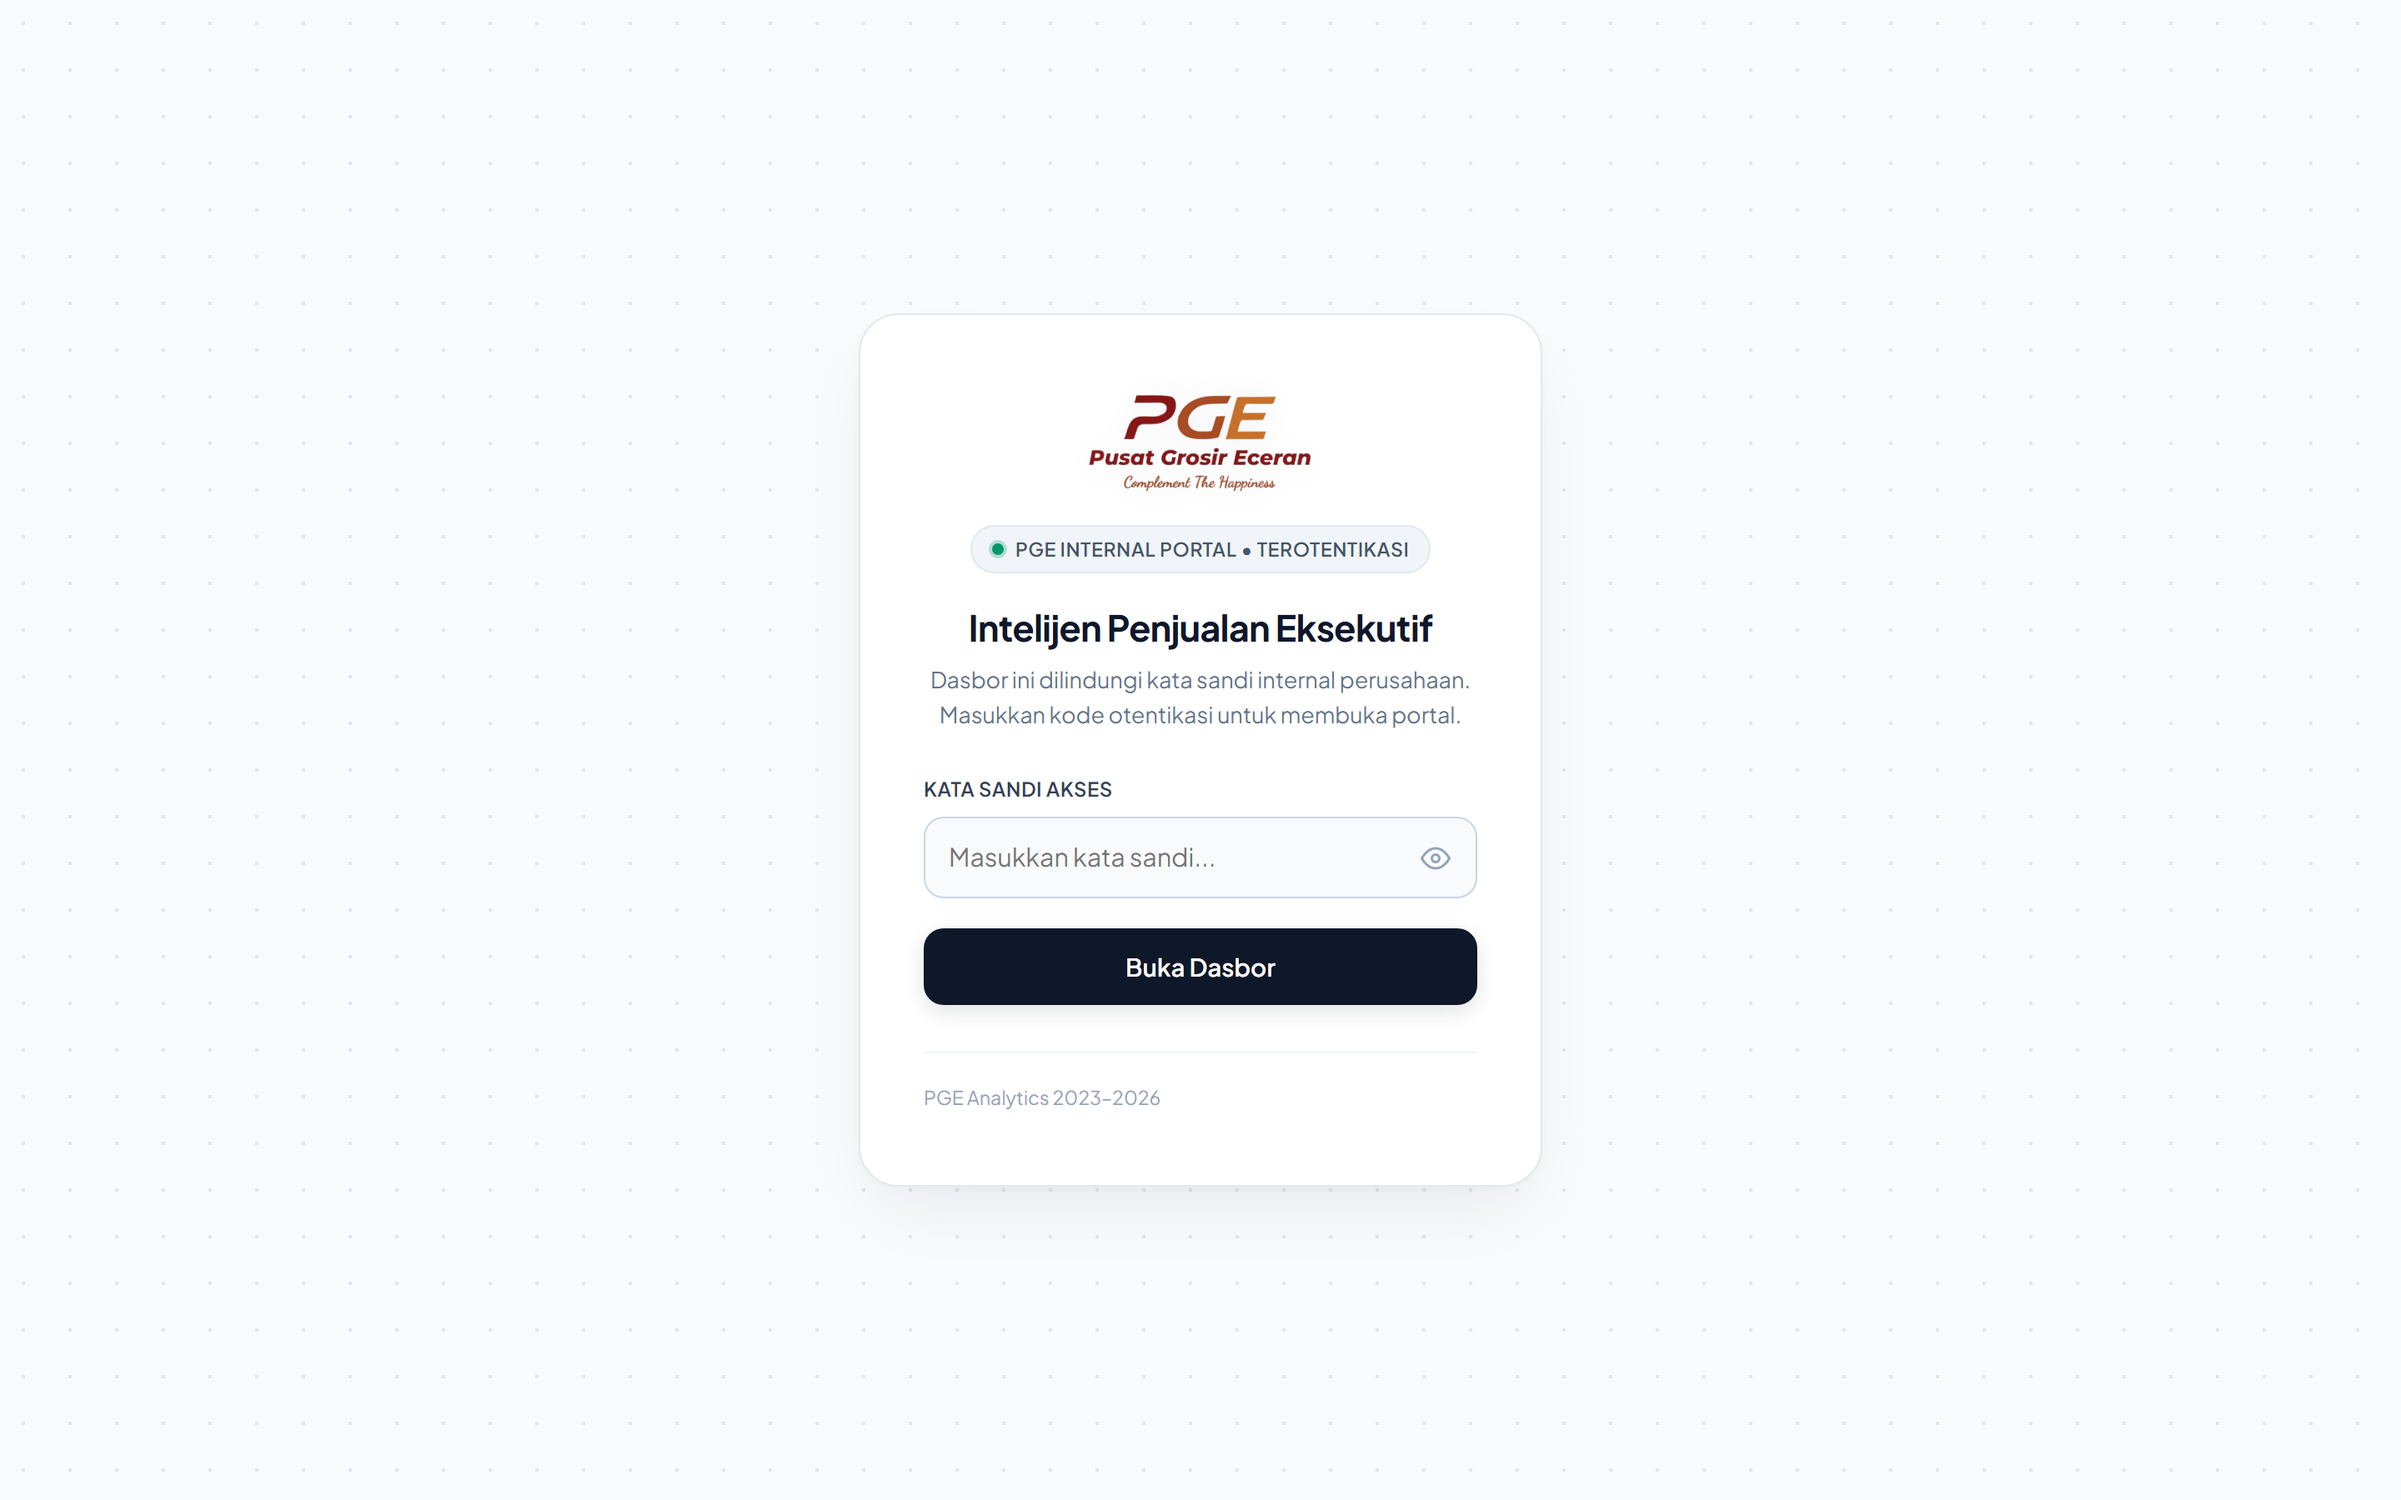
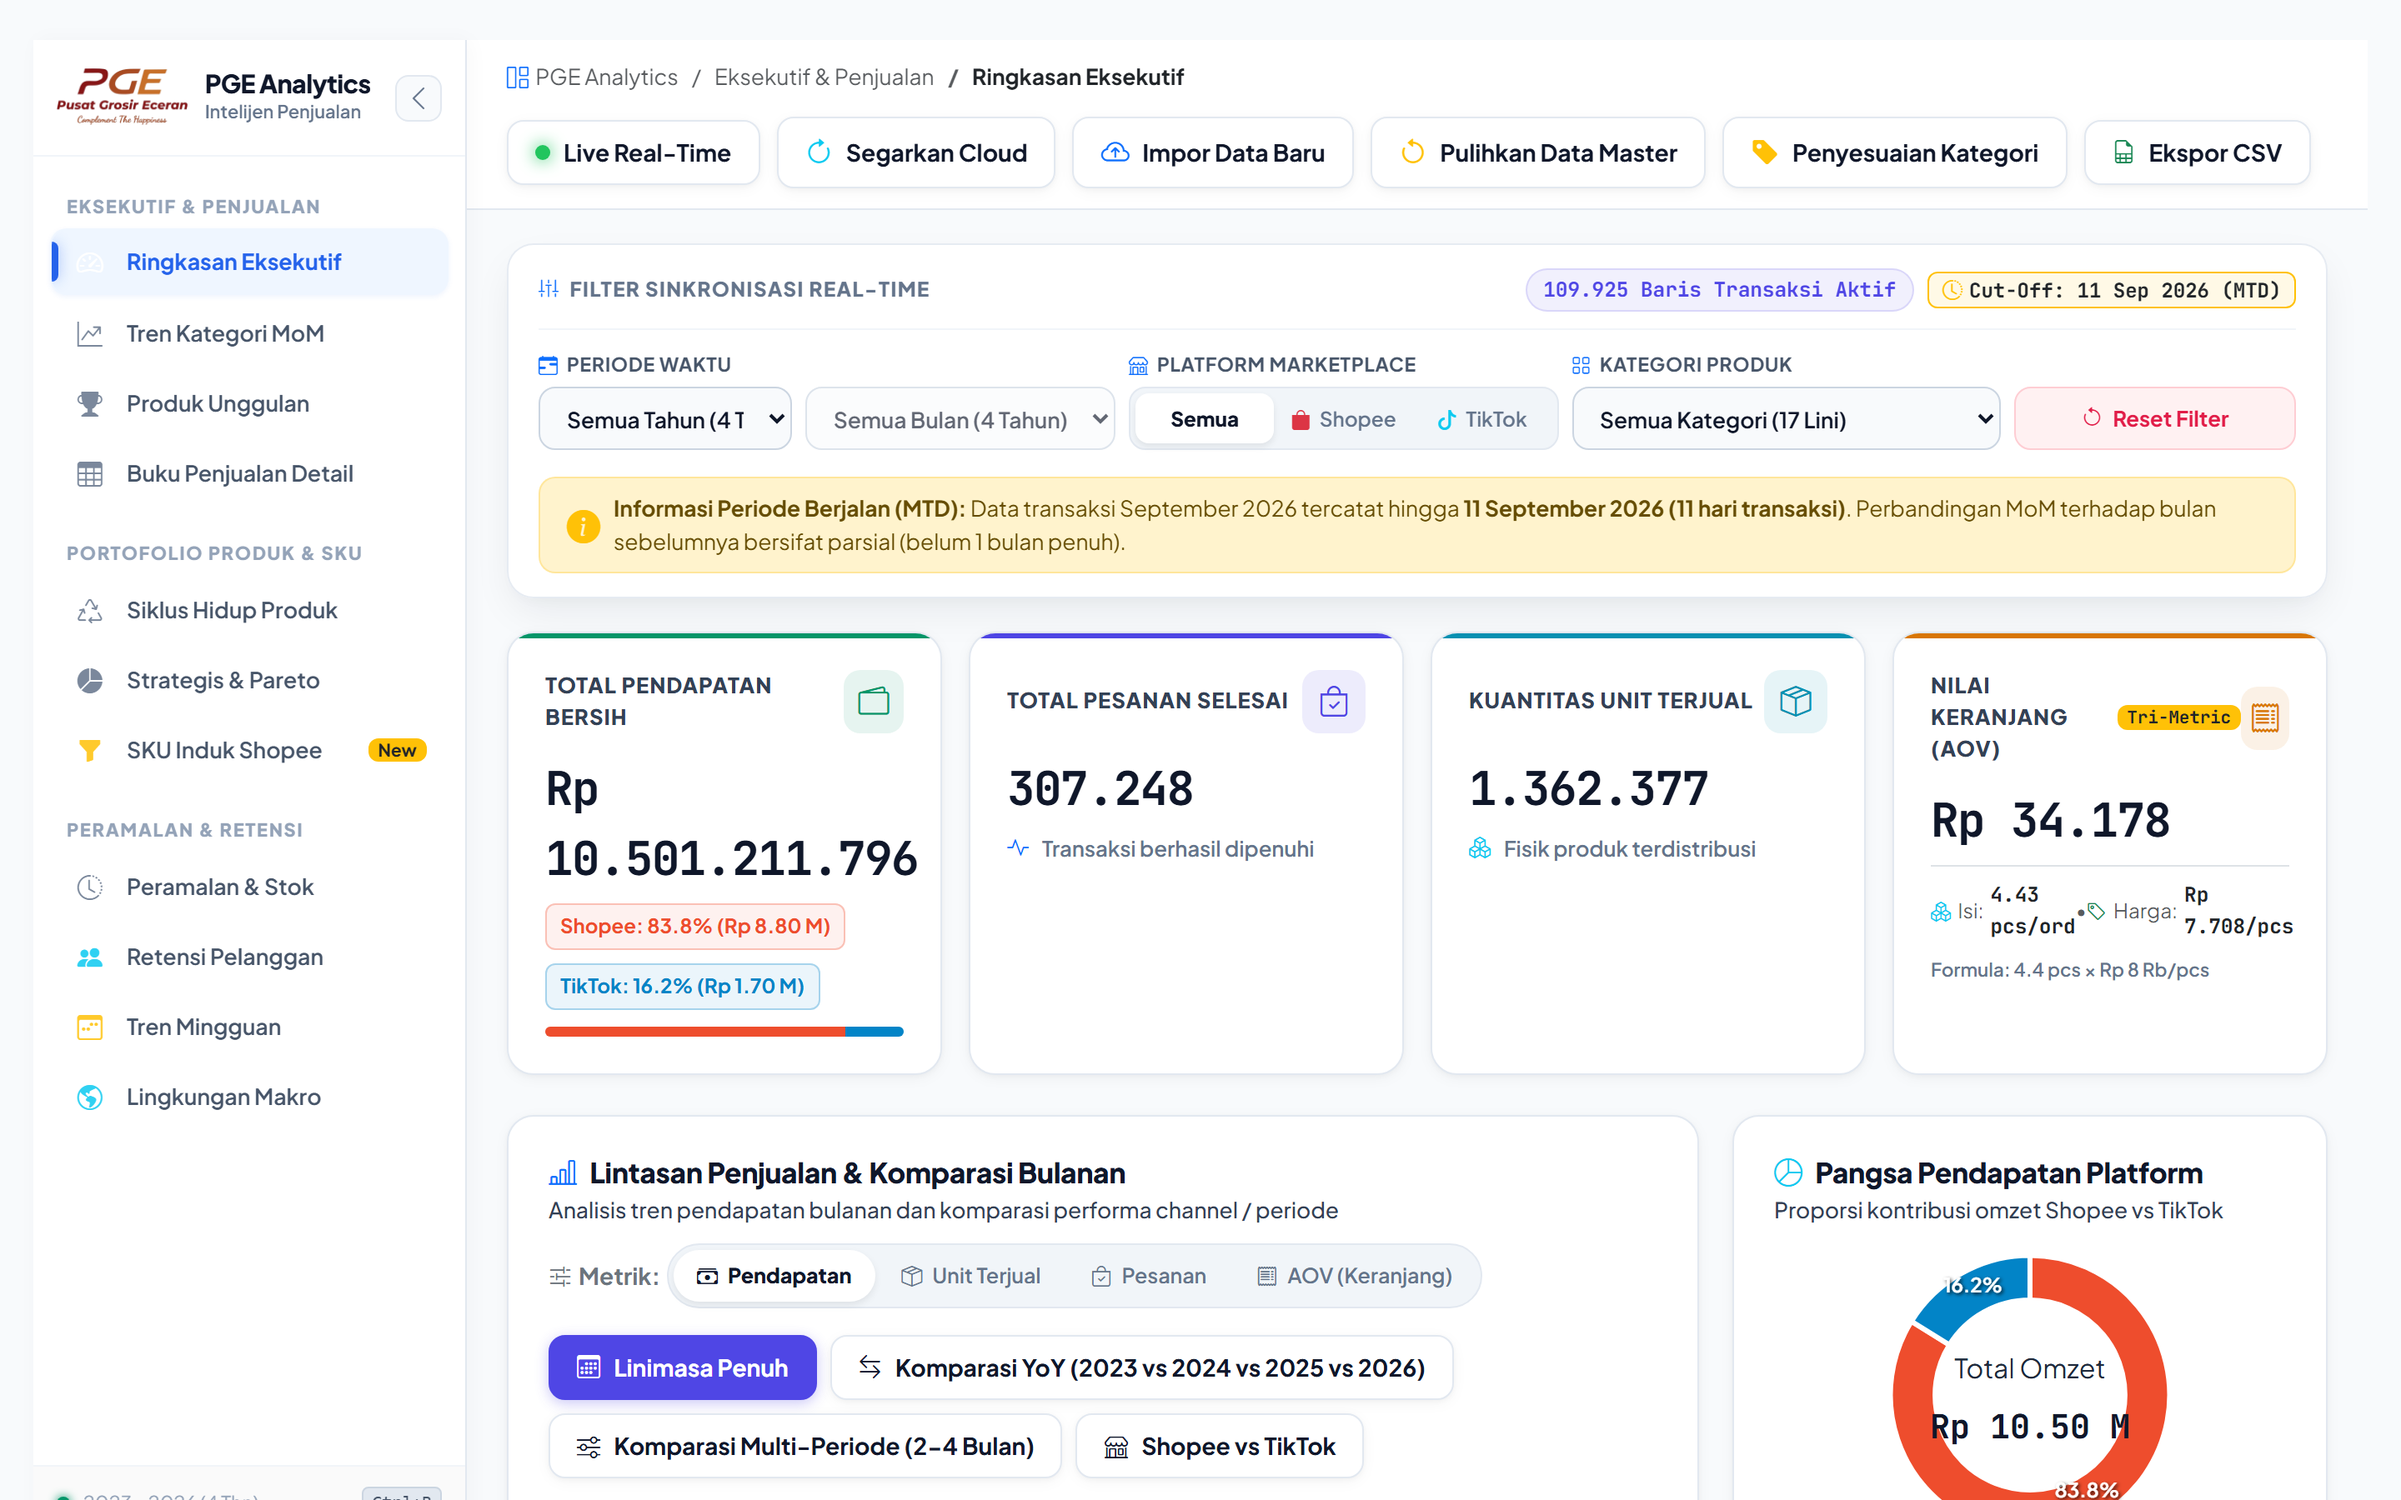
fix(screenshots): capture real unlocked dashboard views for PGE Marketplace Sales Intelligence bypassing auth gate

diff --git a/scripts/capture_real_pge_dashboard.js b/scripts/capture_real_pge_dashboard.js
@@ -1,0 +1,77 @@
+import puppeteer from 'puppeteer-core';
+import path from 'path';
+import { fileURLToPath } from 'url';
+
+const __filename = fileURLToPath(import.meta.url);
+const __dirname = path.dirname(__filename);
+const rootDir = path.resolve(__dirname, '..');
+
+const CHROME_PATH = 'C:\\Program Files\\Google\\Chrome\\Application\\chrome.exe';
+
+async function captureRealPGEDashboard() {
+  console.log('🚀 Launching Chromium to capture REAL Unlocked PGE Dashboard...');
+  const browser = await puppeteer.launch({
+    executablePath: CHROME_PATH,
+    headless: true,
+    args: ['--no-sandbox', '--disable-gpu']
+  });
+
+  const page = await browser.newPage();
+  await page.setViewport({ width: 1440, height: 900, deviceScaleFactor: 2 });
+
+  await page.evaluateOnNewDocument(() => {
[1 lines of base64/hex data omitted]
+    sessionStorage.setItem('pge_last_activity_ts', String(Date.now()));
+  });
+
+  console.log('📸 Navigating to https://pge-dashboard-online.vercel.app/...');
+  await page.goto('https://pge-dashboard-online.vercel.app/', { waitUntil: 'domcontentloaded', timeout: 30000 });
+  
+  // Wait 3.5 seconds for data & charts to fully render
+  await new Promise(r => setTimeout(r, 3500));
+
+  // Remove overlay if any remains
+  await page.evaluate(() => {
+    const gate = document.getElementById('pgePasswordGateOverlay');
+    if (gate) gate.remove();
+    const loader = document.getElementById('pgeInitialLoader');
+    if (loader) loader.remove();
+  });
+
+  await new Promise(r => setTimeout(r, 1000));
+
+  // 1. Executive Summary & KPIs (Screen 1)
+  await page.evaluate(() => window.scrollTo(0, 0));
+  await new Promise(r => setTimeout(r, 500));
+  await page.screenshot({ path: path.join(rootDir, 'public/screenshots/marketplace-sales-intelligence/screen-1.png') });
+  console.log('✓ Captured PGE Real Screen 1 (Executive Summary & KPIs)');
+
+  // 2. YoY Sales Growth & Multi-Year Trends (Screen 2)
+  await page.evaluate(() => window.scrollTo(0, 520));
+  await new Promise(r => setTimeout(r, 600));
+  await page.screenshot({ path: path.join(rootDir, 'public/screenshots/marketplace-sales-intelligence/screen-2.png') });
+  console.log('✓ Captured PGE Real Screen 2 (YoY Sales Growth & Trend Charts)');
+
+  // 3. Volume & Production Capacity Matrix (Screen 3)
+  await page.evaluate(() => window.scrollTo(0, 1150));
+  await new Promise(r => setTimeout(r, 600));
+  await page.screenshot({ path: path.join(rootDir, 'public/screenshots/marketplace-sales-intelligence/screen-3.png') });
+  console.log('✓ Captured PGE Real Screen 3 (Volume & Production Capacity Matrix)');
+
+  // 4. Category Margins & Platform Share (Screen 4)
+  await page.evaluate(() => window.scrollTo(0, 1750));
+  await new Promise(r => setTimeout(r, 600));
+  await page.screenshot({ path: path.join(rootDir, 'public/screenshots/marketplace-sales-intelligence/screen-4.png') });
+  console.log('✓ Captured PGE Real Screen 4 (Category Margins & Platform Comparison)');
+
+  // 5. SKU Level Performance Table & Granular Filter (Screen 5)
+  await page.evaluate(() => window.scrollTo(0, 2350));
+  await new Promise(r => setTimeout(r, 600));
+  await page.screenshot({ path: path.join(rootDir, 'public/screenshots/marketplace-sales-intelligence/screen-5.png') });
+  console.log('✓ Captured PGE Real Screen 5 (SKU Performance Table & Filter Grid)');
+
+  await browser.close();
+  console.log('🎉 PGE Dashboard Online 100% Real Live Screenshots Re-Captured Successfully!');
+}
+
+captureRealPGEDashboard().catch(console.error);
